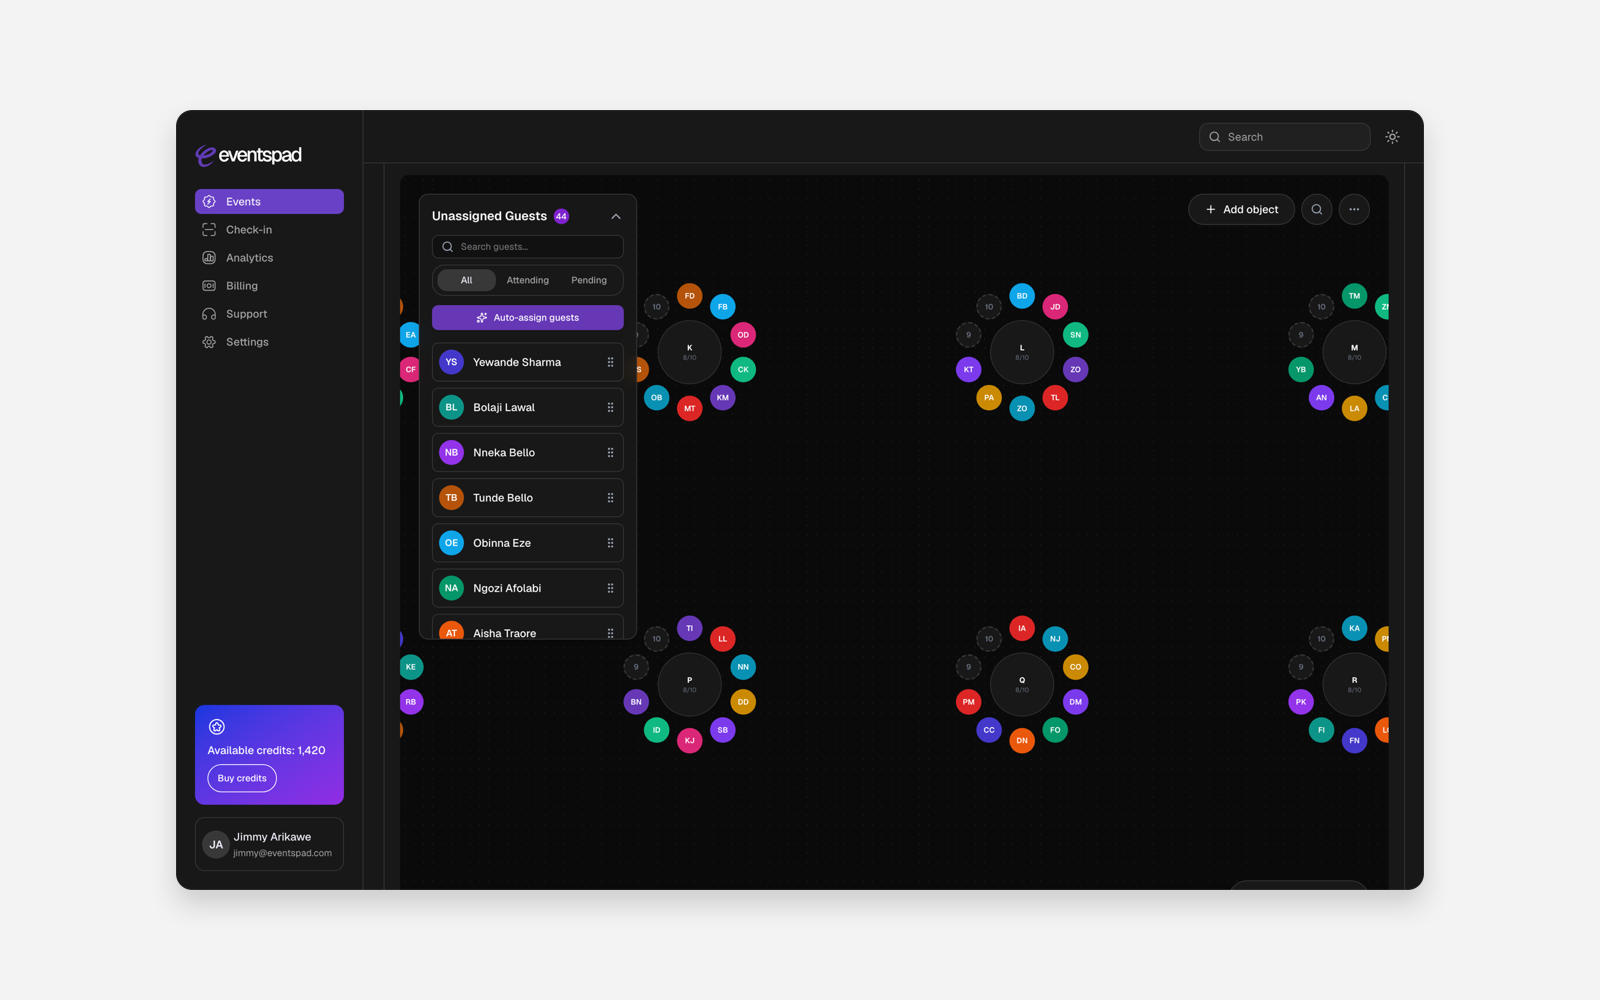
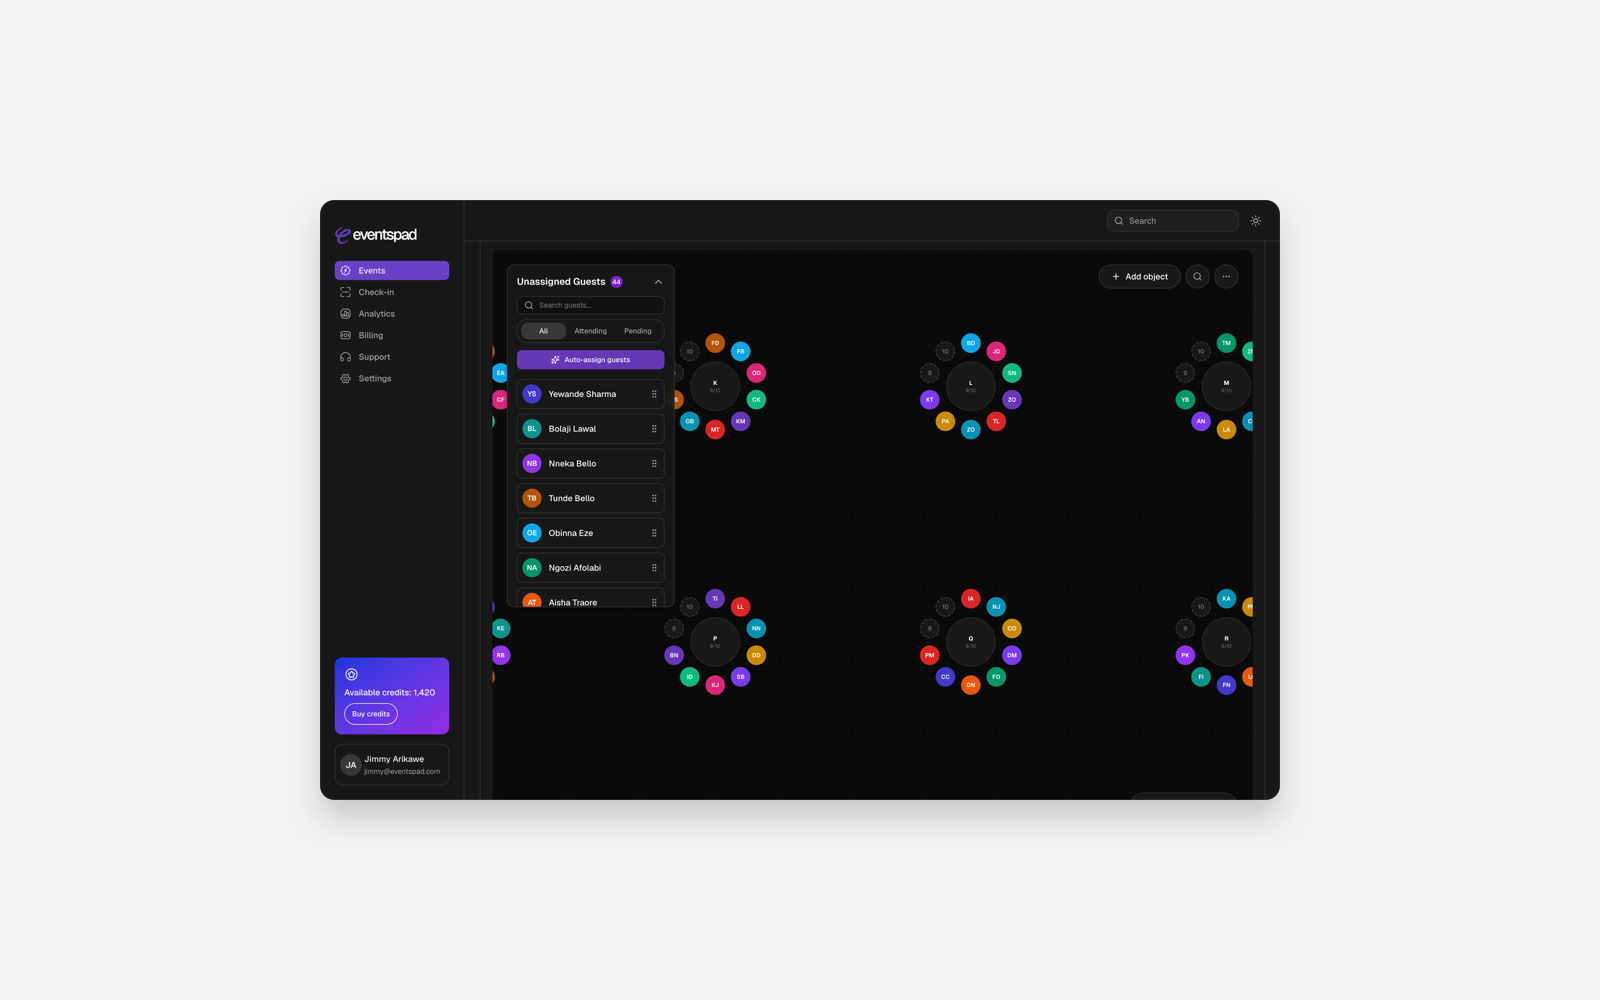
feat(eventspad): reduce dashboard size on thumbnail to 960x600 with spacious #F3F3F3 margins and update coverImage path

diff --git a/src/data/projects.ts b/src/data/projects.ts
@@ -277,7 +277,7 @@ export const projects: Project[] = [
     "engagement": "Side project · Founded EventspadHQ Ltd",
     "duration": "4 Months",
     "liveUrl": "https://eventspad.com",
-    "coverImage": "/images/work/eventspad/01-event-overview.png",
+    "coverImage": "/images/work/eventspad/cover.png",
     "heroImage": "/images/work/eventspad/02-seating-floorplan.png",
     "description": "Eventspad is an event operating system that carries organisers from the first invitation to the final check-in — guest lists, RSVPs, seating, secure QR passes, and sub-second door validation held in a single synchronised platform.",
     "goal": "Collapse the spreadsheet, printed card, and clipboard workflow into one system where every guest record, seat assignment, and QR pass stays in sync from invitation to door.",
